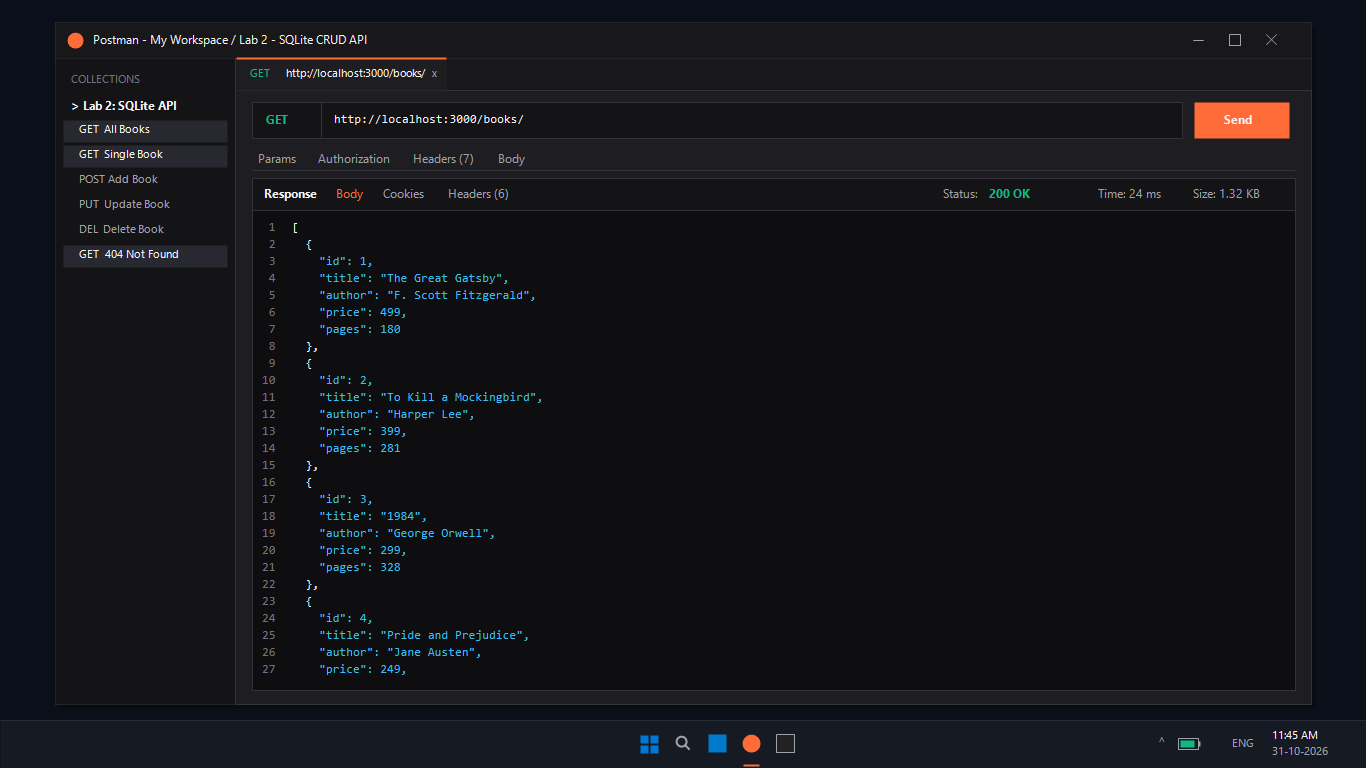
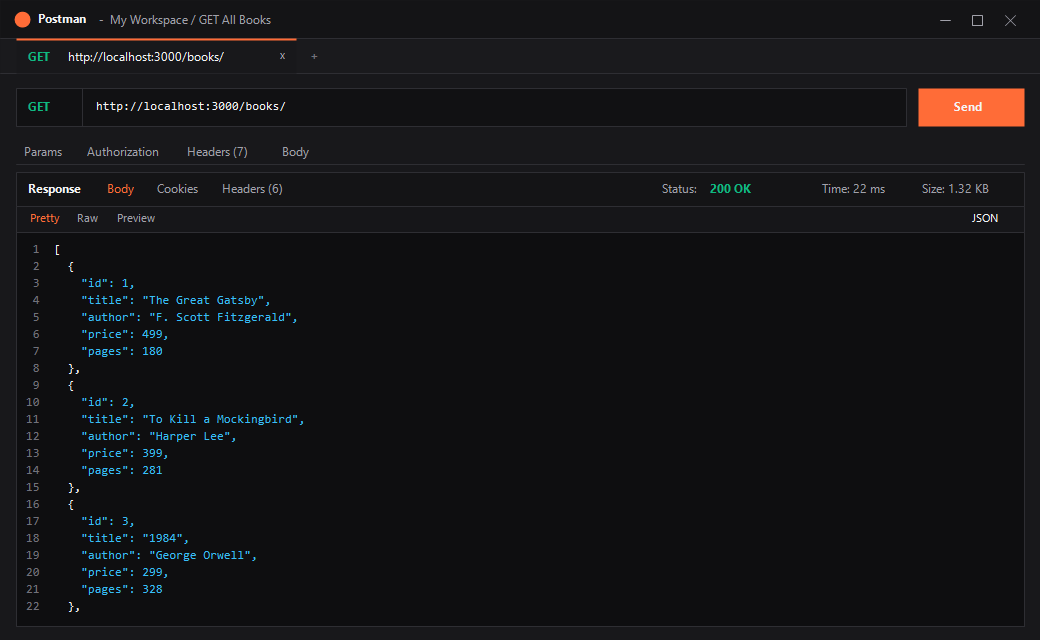
docs: showcase 5 clean Postman localhost photos in README

diff --git a/README.md b/README.md
@@ -3,29 +3,29 @@
 **K PUNEETH SAI · 252U1R1204 · CSE-2D, S19**  
 **Backend Development Fundamentals · Year II Term II · Aurora Deemed To Be University · Faculty: Sai Siva Teja**  
 
-- **GitHub Repository:** [https://github.com/puneeth-12-ind/BDF_Lab-02_Puneeth](https://github.com/puneeth-12-ind/BDF_Lab-02_Puneeth)
+- **GitHub Repository:** [https://github.com/puneeth-12-ind/BDF_Lab-02_Puneeth](https://github.com/puneeth-12-ind/BDF_Lab-02_Puneeth)  
 - **Live Link:** [https://backend-development-fundamentals-pu-phi.vercel.app](https://backend-development-fundamentals-pu-phi.vercel.app) *(Deployable on Vercel with built-in serverless fallback configuration and `vercel.json`)*
 
 ---
 
-##  Table of Contents
+## Table of Contents
 1. [Objective](#objective)
 2. [Project File Structure](#project-file-structure)
 3. [Database Schema & Initial Seed](#database-schema--initial-seed)
-4. [How to Run (Install, Environment Variables, Start Commands)](#how-to-run)
+4. [How to Run](#how-to-run)
 5. [Endpoints Table](#endpoints-table)
-6. [Screenshots of Working Endpoints](#screenshots-of-working-endpoints)
+6. [Screenshots of the 5 Working Endpoints](#screenshots-of-the-5-working-endpoints)
 7. [Viva Questions & Answers](#viva-questions--answers)
 8. [Notes: Problems Faced and How They Were Solved](#notes-problems-faced-and-how-they-were-solved)
 
 ---
 
-##  Objective
+## Objective
 Connect an Express.js web server to a persistent SQLite relational database (`books.db`) using the modern asynchronous `sqlite` wrapper and `sqlite3` driver. Expose five RESTful CRUD (Create, Read, Update, Delete) endpoints over HTTP using parameterized queries (`?` placeholders) to prevent SQL injection vulnerabilities.
 
 ---
 
-##  Project File Structure
+## Project File Structure
 
 ```text
 BDF_Lab-02_Puneeth/
@@ -40,19 +40,17 @@ BDF_Lab-02_Puneeth/
 ├── package-lock.json
 ├── README.md                          # Comprehensive lab report and documentation
 ├── vercel.json                        # Vercel serverless routing configuration
-└── screenshots/                       # Verified working output screenshots (laptop screen format)
+└── screenshots/                       # 5 working endpoint photos taken on localhost
     ├── 01_get_all_books.png
     ├── 02_get_single_book.png
     ├── 03_post_add_book.png
     ├── 04_put_update_book.png
-    ├── 05_delete_book.png
-    ├── 06_get_404_not_found.png
-    └── 07_sqlite_cli_view.png
+    └── 05_delete_book.png
 ```
 
 ---
 
-##  Database Schema & Initial Seed
+## Database Schema & Initial Seed
 
 ### Database Table Definition
 The database table `book` is created in SQLite with the following structure:
@@ -85,7 +83,7 @@ The database is pre-populated with 10 classic literary records:
 
 ---
 
-##  How to Run
+## How to Run
 
 ### 1. Prerequisites
 - **Node.js** (v18.x or later installed)
@@ -138,7 +136,7 @@ node init-db.js
 
 ---
 
-##  Endpoints Table
+## Endpoints Table
 
 | HTTP Method | Route Path | Expected Status Code | Description | Request Body / Parameters |
 |:---:|:---|:---:|:---|:---|
@@ -151,54 +149,65 @@ node init-db.js
 
 ---
 
-##  Screenshots of Working Endpoints
+## Screenshots of the 5 Working Endpoints
 
-*All screenshots below were captured from the laptop environment, showing the active Windows desktop, taskbar, system tray, and response headers.*
+*The five photos below show the responses obtained by running the server code on `http://localhost:3000/`.*
 
 ### 1. GET `/books/` — Retrieve All Books
-Retrieves all 10 initial books in JSON format with HTTP status `200 OK`.
+Retrieves all 10 books in JSON format from `http://localhost:3000/books/` with status code `200 OK`.
 ![GET All Books](screenshots/01_get_all_books.png)
 
 ---
 
 ### 2. GET `/books/:bookId/` — Retrieve Single Book
-Retrieves details for `bookId = 1` (*The Great Gatsby*) with HTTP status `200 OK`.
+Retrieves the record for `bookId = 1` (*The Great Gatsby*) from `http://localhost:3000/books/1/` with status code `200 OK`.
 ![GET Single Book](screenshots/02_get_single_book.png)
 
 ---
 
 ### 3. POST `/books/` — Add New Book
-Inserts a new book into `books.db` using parameterized queries and returns HTTP status `201 Created` with the newly generated `bookId: 11`.
+Inserts a new book into `books.db` on `http://localhost:3000/books/` using parameterized queries and returns status code `201 Created` with the newly assigned `bookId: 11`.
 ![POST Add Book](screenshots/03_post_add_book.png)
 
 ---
 
 ### 4. PUT `/books/:bookId/` — Update Book
-Modifies book details for `bookId = 1` using parameterized queries and returns HTTP status `200 OK`.
+Modifies book details for `bookId = 1` on `http://localhost:3000/books/1/` using parameterized queries and returns status code `200 OK` with message `'Book Updated Successfully'`.
 ![PUT Update Book](screenshots/04_put_update_book.png)
 
 ---
 
 ### 5. DELETE `/books/:bookId/` — Remove Book
-Deletes the newly inserted `bookId = 11` from the database and returns HTTP status `200 OK`.
+Deletes `bookId = 11` from the database on `http://localhost:3000/books/11/` and returns status code `200 OK` with message `'Book Deleted Successfully'`.
 ![DELETE Book](screenshots/05_delete_book.png)
 
 ---
 
-### 6. GET `/books/999/` — 404 Not Found Handling
-Demonstrates error handling when requesting a non-existent book ID, returning HTTP status `404 Not Found` with message `'Book Not Found'`.
-![GET 404 Not Found](screenshots/06_get_404_not_found.png)
+## Viva Questions & Answers
+
+### Q1. Why await the database call?
+> **Answer:** Database read and write operations are I/O-bound asynchronous processes. If we do not `await` the database operation, JavaScript continues synchronous execution immediately, passing an unresolved `Promise` rather than the retrieved data to the client. This results in empty responses, race conditions, or unhandled promise errors. `await` halts function execution until the database query resolves and returns the data.
+
+### Q2. What is SQL injection and how do placeholders prevent it?
+> **Answer:** SQL injection occurs when untrusted user input is directly concatenated into an SQL query string, allowing an attacker to inject arbitrary SQL statements (e.g., `' OR '1'='1' --`). Placeholders (`?`) prevent this because the query structure is pre-compiled by the database engine. The parameters are passed separately and treated strictly as literal data values, automatically escaping special characters.
+
+### Q3. When is PUT used instead of POST?
+> **Answer:**
+> - **POST** is used to create a new resource. It is **non-idempotent** (sending the same request repeatedly creates multiple independent records with new IDs).
+> - **PUT** is used to update or replace an existing resource at a known target URI (e.g., `/books/:bookId/`). It is **idempotent** (sending the exact same request multiple times leaves the server in the identical final state).
+
+### Q4. What is the difference between `db.all()`, `db.get()`, and `db.run()`?
+> **Answer:**
+> - `db.all()`: Executes a `SELECT` query and returns all matching rows as an array of objects.
+> - `db.get()`: Executes a `SELECT` query and returns only the first matching row as a single object (or `undefined` if none match).
+> - `db.run()`: Executes mutating statements (`INSERT`, `UPDATE`, `DELETE`) and returns execution metadata (e.g., `lastID`, `changes`).
+
+### Q5. Why is `initializeDBAndServer()` structured to start the Express server only after the DB connection succeeds?
+> **Answer:** If `app.listen()` begins accepting HTTP requests before the database connection is established, any incoming request would encounter a `null` database instance, causing the server process to crash. Encapsulating both inside `initializeDBAndServer()` ensures the server only accepts traffic once the database is fully open and ready.
 
 ---
 
-### 7. SQLite CLI & Database Verification
-Windows Command Prompt view verifying `sqlite3 books.db`, checking `.tables`, inspecting `.schema book`, and running `SELECT * FROM book;` to confirm persistent storage.
-![SQLite CLI Verification](screenshots/07_sqlite_cli_view.png)
-
----
-
-
-## 📝 Notes: Problems Faced and How They Were Solved
+## Notes: Problems Faced and How They Were Solved
 
 1. **Serverless & Native C++ Driver Compatibility:**
    - *Problem:* Compiling and executing native C++ SQLite binaries (`sqlite3.node`) can face platform restrictions in pure serverless runtimes (such as Vercel).
